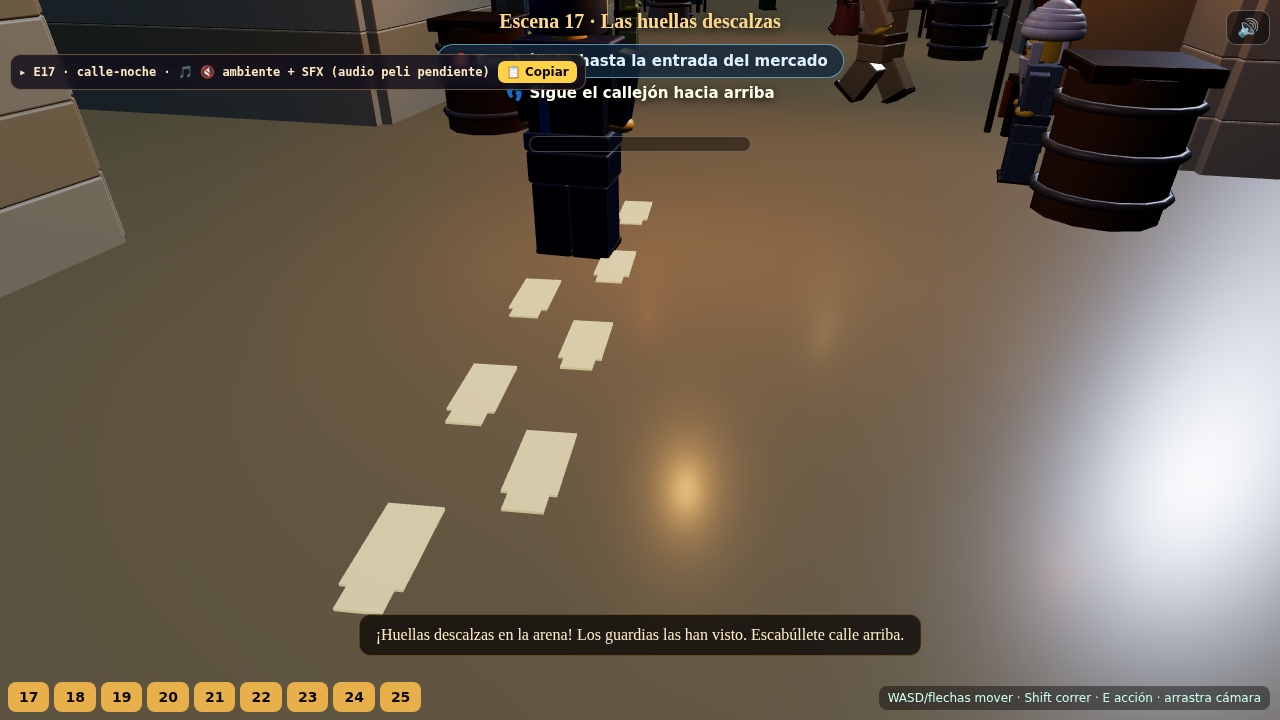
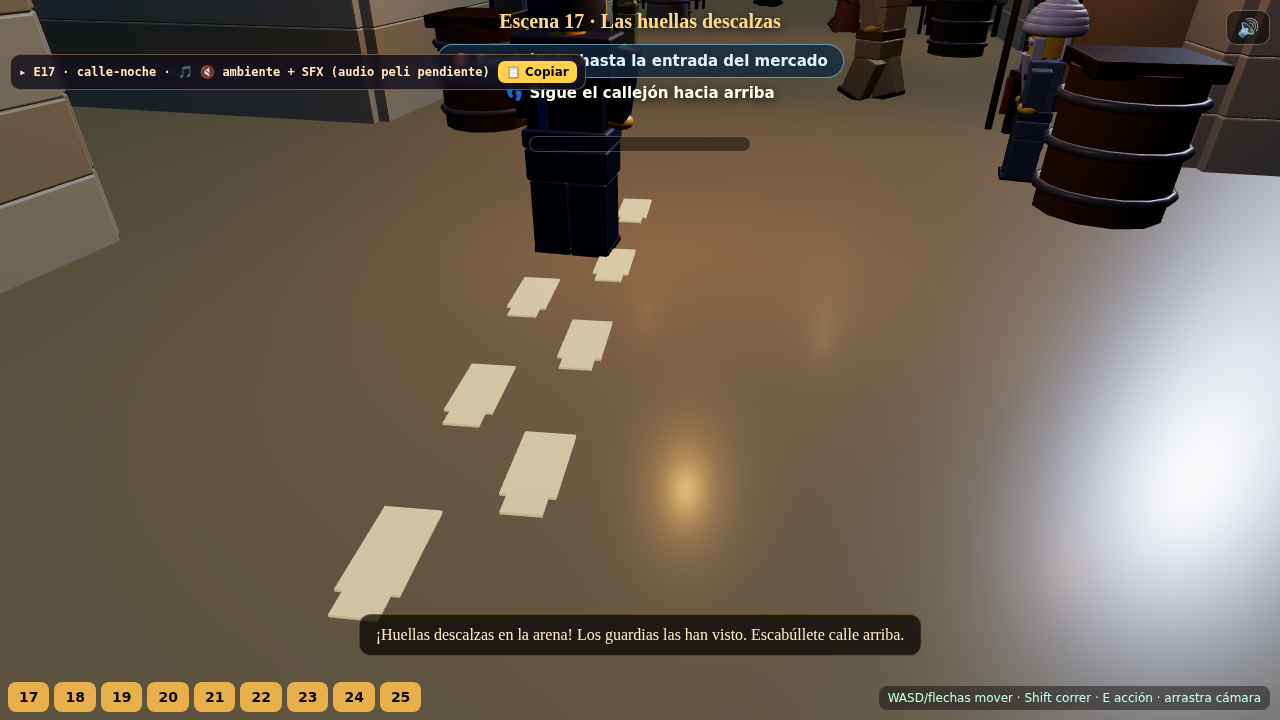
Fix playtest 10-15: sala más amplia, maceta/ventana alcanzables, escondites generosos
Feedback directo del usuario (playtest de la posada de Rahab):
- "el bar es muy pequeño, te agobias": TAVERN_BOUNDS ensanchado al muro real,
  mesas movidas al frente/laterales (centro y fondo despejados), cámara
  interior algo más abierta.
- "no puede llegar a la ventana (esc.20)": la maceta ya no tapa el pasillo al
  arco; radio del objetivo 2.6->3.0.
- "no puede llegar a la maceta": una mesa caía en su hueco; mesa reubicada y
  maceta a (9,0) (frente-derecha, hueco hacia la cámara).
- "esconderse en el tapiz es difícil y no gana fácil": RugHide/PotHide.contains
  ampliadas y tope lateral del tapiz más corto.

Verificado: compila 0 err, 0 errores de consola (9 escenas headless), y BFS con
el modelo de colisión real (radio 1.1) confirma arco/tapiz/maceta alcanzables y
todos los spawns libres. Capturas regeneradas. Audio de película sigue pendiente
del clip real (film-spine ya cableado).

Claude-Session: https://claude.ai/code/session_015WLDEivXXZbK5n9bBPcdg3

diff --git a/mundo-ladrillos/src/scenes/min10/props/stage.ts b/mundo-ladrillos/src/scenes/min10/props/stage.ts
@@ -30,8 +30,10 @@ export interface TavernStageHandle {
   dispose(): void;
 }
 
-/** Límite del recinto interior de la taberna (para acotar al jugador). */
-export const TAVERN_BOUNDS = { minX: -11.5, maxX: 11.5, minZ: -9.2, maxZ: 8 };
+/** Límite del recinto interior de la taberna (para acotar al jugador).
+ *  Ensanchado al muro real (x±12.7, fondo z−11) para que la sala NO agobie y se
+ *  pueda llegar al arco del fondo y a los escondites de las esquinas. */
+export const TAVERN_BOUNDS = { minX: -12, maxX: 12, minZ: -10, maxZ: 8.5 };
 
 /** Textura de "ventana a la noche": silueta de Jericó con ventanas cálidas + luna. */
 function nightCityTexture(): THREE.CanvasTexture {
@@ -135,16 +137,19 @@ export function buildTavernStage(ctx: SceneContext, opts: { rahabAt?: [number, n
       st.position.set(tx + Math.cos(a) * 2.0, 0.6, tz + Math.sin(a) * 2.0); group.add(st);
     }
   };
-  // mesas repartidas por el comedor (lejos de la barra, del paso central y de los escondites de z≈0)
-  diningTable(-4.5, 5.5); diningTable(4.5, 6.5); diningTable(6.5, -2.5);
+  // mesas del comedor en las esquinas/laterales DELANTEROS, FUERA de la columna de
+  // entrada (x≈0–2) y del hueco del tapiz: así el centro y el fondo (arco, hogar y
+  // los dos escondites) quedan DESPEJADOS y el niño se mueve sin agobio (feedback
+  // del playtest: "el bar es muy pequeño, te agobias").
+  diningTable(-7, 6); diningTable(7, 6); diningTable(-4.5, 3);
   // comensales + un camarero (aldeanos variados; idle sutil, sin clonar caras)
   const diners = buildCrowd(ctx.scene, P, [
-    { x: -6.2, z: 5.2, yaw: -0.7, emotion: 'happy' },
-    { x: -3.2, z: 6.8, yaw: 2.2, scale: 0.72 },
-    { x: 6.2, z: 6.4, yaw: -2.0, emotion: 'neutral' },
-    { x: 2.8, z: 6.6, yaw: 1.4, emotion: 'happy' },
-    { x: 8.0, z: -2.6, yaw: 2.4, emotion: 'neutral' },
-    { x: -2.5, z: -3.0, yaw: 0.2, emotion: 'happy' }   // camarero, junto a la barra
+    { x: -8.3, z: 5.6, yaw: -0.6, emotion: 'happy' },
+    { x: -5.7, z: 6.6, yaw: 2.3, scale: 0.72 },
+    { x: 8.3, z: 5.6, yaw: -2.4, emotion: 'neutral' },
+    { x: 5.7, z: 6.6, yaw: 1.4, emotion: 'happy' },
+    { x: -4.6, z: 1.6, yaw: 0.3, emotion: 'neutral' },
+    { x: -1.5, z: -3.4, yaw: 0.2, emotion: 'happy' }   // camarero, junto a la barra
   ], { startIndex: 11 });
 
   // ---- MOTAS de polvo flotando en la luz cálida (atmósfera senior) ----
@@ -161,11 +166,11 @@ export function buildTavernStage(ctx: SceneContext, opts: { rahabAt?: [number, n
 
   // Colisiones: paredes + barra + hogar + mesas del comedor.
   ctx.addObstacle(0, -10.8, 13, 0.6);
-  ctx.addObstacle(-12.4, -1, 0.6, 10);
-  ctx.addObstacle(12.4, -1, 0.6, 10);
+  ctx.addObstacle(-12.6, -1, 0.6, 10);
+  ctx.addObstacle(12.6, -1, 0.6, 10);
   ctx.addObstacle(-1.5, -5.5, 7.6, 1.2);
   ctx.addObstacle(-10.5, -9.6, 2, 1);
-  for (const [tx, tz] of [[-4.5, 5.5], [4.5, 6.5], [6.5, -2.5]] as Array<[number, number]>) ctx.addObstacle(tx, tz, 1.3, 1.3);
+  for (const [tx, tz] of [[-7, 6], [7, 6], [-4.5, 3]] as Array<[number, number]>) ctx.addObstacle(tx, tz, 1.3, 1.3);
 
   return {
     group, tav,
@@ -202,7 +207,10 @@ export function buildHideouts(ctx: SceneContext): HideoutsHandle {
   // Escondites EXENTOS en el suelo del comedor, con COLISIÓN + hueco detrás:
   // el tapiz (izquierda) y la tinaja (derecha). Se rodean para meterse detrás.
   const rug = new RugHide(ctx.plastic, { x: -7.5, z: 0, entrada: 'derecha' });
-  const pot = new PotHide(ctx.plastic, { x: 8, z: 0 });
+  // Maceta en el FRENTE-derecha (x9,z0): su hueco (hacia −z) es accesible desde la
+  // sala y NO tapa el pasillo del fondo que lleva al arco/ventana de la esc.20
+  // (verificado por BFS: alejarla a la esquina pinchaba el paso; aquí todo alcanza).
+  const pot = new PotHide(ctx.plastic, { x: 9, z: 0 });
   group.add(rug.group); group.add(pot.group);
   rug.registerCollision(ctx.addObstacle);
   pot.registerCollision(ctx.addObstacle);

diff --git a/mundo-ladrillos/src/scenes/min10/props/RugHide.ts b/mundo-ladrillos/src/scenes/min10/props/RugHide.ts
@@ -95,9 +95,10 @@ export class RugHide {
   registerCollision(addObstacle: (x: number, z: number, hw: number, hd: number) => void): void {
     const RW = RugHide.RW;
     addObstacle(this.x, this.z + 0.1, RW / 2, 0.35);                 // la tela
-    // tapa un lado del hueco para forzar entrar por el otro (rodear)
+    // tapa un lado del hueco para forzar entrar por el otro (rodear). Tope CORTO y
+    // pegado al fondo: sólo insinúa el "rodea", sin encajonar al niño en el hueco.
     const side = this.entrada === 'derecha' ? -1 : 1;               // cierra el lado opuesto a la entrada
-    addObstacle(this.x + side * (RW / 2 + 0.3), this.z - RugHide.NOOK / 2, 0.3, RugHide.NOOK / 2 + 0.3);
+    addObstacle(this.x + side * (RW / 2 + 0.3), this.z - RugHide.NOOK * 0.75, 0.3, RugHide.NOOK * 0.55);
   }
 
   /** El punto del hueco (detrás de la tela) para el sistema de sigilo. */
@@ -105,10 +106,12 @@ export class RugHide {
     return { x: this.x, z: this.z - RugHide.NOOK, radio: 1.6 };
   }
 
-  /** TRUE solo si el jugador está en el HUECO de detrás (no sobre la tela). */
+  /** TRUE si el jugador está en el HUECO de detrás (no sobre la tela). Zona GENEROSA
+   *  (feedback del niño: "esconderse en el tapiz es difícil"): basta con estar más o
+   *  menos detrás para contar como escondido. */
   contains(px: number, pz: number): boolean {
     const dz = this.z - pz;                                          // >0 = detrás
-    return dz > 0.35 && dz < RugHide.NOOK + 1.1 && Math.abs(px - this.x) < RugHide.RW / 2 + 0.3;
+    return dz > 0.2 && dz < RugHide.NOOK + 1.7 && Math.abs(px - this.x) < RugHide.RW / 2 + 0.9;
   }
 
   update(dt: number, t: number, hidden: boolean): void {
@@ -191,7 +194,8 @@ export class PotHide {
 
   contains(px: number, pz: number): boolean {
     const dz = this.z - pz;
-    return dz > PotHide.R - 0.4 && dz < PotHide.R + PotHide.NOOK && Math.abs(px - this.x) < PotHide.R + 0.4;
+    // Zona GENEROSA detrás/al lado de la tinaja (feedback: "no puede llegar a la maceta").
+    return dz > PotHide.R - 0.9 && dz < PotHide.R + PotHide.NOOK + 0.7 && Math.abs(px - this.x) < PotHide.R + 0.9;
   }
 
   update(dt: number, t: number, hidden: boolean): void {

diff --git a/mundo-ladrillos/src/scenes/min10/escena20_guardias_acercan.ts b/mundo-ladrillos/src/scenes/min10/escena20_guardias_acercan.ts
@@ -19,9 +19,9 @@ export const escena20: Min10Scene = {
   noche: true,
   ambiente: 'street',
   spawn: { x: 0, z: 3 },
-  objetivo: { tipo: 'ir_a', texto: 'Asómate al arco (E) para ver a los guardias', target: { x: 8, z: -8 }, radio: 2.6 },
+  objetivo: { tipo: 'ir_a', texto: 'Asómate al arco (E) para ver a los guardias', target: { x: 8, z: -8 }, radio: 3.0 },
   exito: '¡Son ellos! Hay que darse prisa.',
-  camara: { yaw: 0, pitch: 0.32, dist: 15 },
+  camara: { yaw: 0, pitch: 0.34, dist: 18 },
 
   build(ctx: SceneContext): SceneInstance {
     const group = new THREE.Group();

diff --git a/mundo-ladrillos/src/scenes/min10/escena24_rahab_miente.ts b/mundo-ladrillos/src/scenes/min10/escena24_rahab_miente.ts
@@ -21,7 +21,7 @@ export const escena24: Min10Scene = {
   spawn: { x: -7.5, z: -1.6 },   // empiezas ya escondido en el hueco detrás del tapiz
   objetivo: { tipo: 'esconderse', texto: 'Quédate quieto en el escondite mientras Rahab los engaña', target: { x: -7.5, z: -1.6 }, radio: 2.4 },
   exito: 'Los guardias se lo tragan y salen corriendo al río.',
-  camara: { yaw: 0, pitch: 0.38, dist: 18 },
+  camara: { yaw: 0, pitch: 0.4, dist: 19 },
 
   build(ctx: SceneContext): SceneInstance {
     const group = new THREE.Group();

diff --git a/mundo-ladrillos/src/scenes/min10/escena23_escondite.ts b/mundo-ladrillos/src/scenes/min10/escena23_escondite.ts
@@ -27,7 +27,7 @@ export const escena23: Min10Scene = {
   spawn: { x: 0, z: 6 },
   objetivo: { tipo: 'sigilo', texto: 'Aguanta 3 rondas: escóndete siempre en el sitio que el guardia NO inspecciona', target: { x: -8.5, z: -7.5 }, radio: 2.4 },
   exito: '¡El guardia se rinde y no os encontró!',
-  camara: { yaw: 0, pitch: 0.4, dist: 18 },
+  camara: { yaw: 0, pitch: 0.42, dist: 20 },
 
   build(ctx: SceneContext): SceneInstance {
     const group = new THREE.Group();

diff --git a/mundo-ladrillos/src/scenes/min10/escena19_entrar_posada.ts b/mundo-ladrillos/src/scenes/min10/escena19_entrar_posada.ts
@@ -19,7 +19,7 @@ export const escena19: Min10Scene = {
   spawn: { x: 0, z: 3 },
   objetivo: { tipo: 'ir_a', texto: 'Acércate a la barra y pulsa E para pedir café', target: { x: -1, z: -3 }, radio: 2.6 },
   exito: 'Rahab os sirve un café humeante. Por ahora, a salvo.',
-  camara: { yaw: 0, pitch: 0.3, dist: 14 },
+  camara: { yaw: 0, pitch: 0.32, dist: 16 },
 
   build(ctx: SceneContext): SceneInstance {
     const group = new THREE.Group();

diff --git a/mundo-ladrillos/src/scenes/min10/escena21_pacto.ts b/mundo-ladrillos/src/scenes/min10/escena21_pacto.ts
@@ -20,7 +20,7 @@ export const escena21: Min10Scene = {
   spawn: { x: 2, z: 3 },
   objetivo: { tipo: 'ir_a', texto: 'Acércate a Rahab y susurra el pacto (E)', target: { x: -1.5, z: -3.5 }, radio: 2.4 },
   exito: 'Rahab acepta. «Escondeos, yo os cubriré.»',
-  camara: { yaw: 0, pitch: 0.3, dist: 14 },
+  camara: { yaw: 0, pitch: 0.32, dist: 16 },
 
   build(ctx: SceneContext): SceneInstance {
     const group = new THREE.Group();

diff --git a/mundo-ladrillos/src/scenes/min10/escena22_patean_puerta.ts b/mundo-ladrillos/src/scenes/min10/escena22_patean_puerta.ts
@@ -20,7 +20,7 @@ export const escena22: Min10Scene = {
   spawn: { x: 0, z: 5 },
   objetivo: { tipo: 'esconderse', texto: 'Escóndete tras el tapiz o dentro de la maceta', target: { x: -8.5, z: -7.5 }, radio: 2.4 },
   exito: '¡Escondido justo a tiempo!',
-  camara: { yaw: 0, pitch: 0.34, dist: 16 },
+  camara: { yaw: 0, pitch: 0.36, dist: 18 },
 
   build(ctx: SceneContext): SceneInstance {
     const group = new THREE.Group();

diff --git a/mundo-ladrillos/coordinacion/min10-15.md b/mundo-ladrillos/coordinacion/min10-15.md
@@ -1,5 +1,28 @@
 # Creador 10–15 · "La posada de Rahab" (rama `claude/min-10-15-rajav-jordan`)
 
+## ◀ RESPUESTA A CEREBRO — FIX PLAYTEST DIRECTO DEL USUARIO (2026-07-26, noche)
+El **usuario probó el jugable** y reportó (playtest real, no vía Eli). Traducido a fixes
+concretos y **entregado** (rama `claude/min-10-15-rajav-jordan`). Compila (0 err), **0
+errores de consola** en las 9 escenas (headless, single-file) y **alcance verificado por
+BFS** con el modelo de colisión exacto (radio 1.1): arco/ventana, tapiz y maceta
+**alcanzables** y **todos los spawns libres**. Capturas regeneradas.
+
+- 🗣 *"el bar es muy pequeño, te agobias dentro"* → **sala ensanchada** al muro real
+  (`TAVERN_BOUNDS` −12..12 / −10..8.5), **mesas movidas al frente/laterales** (fuera de
+  la columna de entrada y del hueco del tapiz) → **centro y fondo despejados**; **cámara
+  interior algo más abierta** (dist 14→16, 16→18, 18→20).
+- 🗣 *"no puede llegar a la ventana (esc.20)"* → la **maceta ya no bloquea** el pasillo al
+  **arco** del fondo; objetivo con radio 2.6→**3.0**. Verificado: se llega **a ≤1.5** del arco.
+- 🗣 *"no puede llegar a la maceta"* → causa raíz: una **mesa caía justo en su hueco**.
+  Mesa reubicada + **maceta a (9,0)** (frente-derecha, hueco hacia la cámara). *(Probé la
+  esquina pero **pinchaba** el pasillo — BFS lo descartó; (9,0) da la mayor zona jugable.)*
+- 🗣 *"esconderse en el tapiz es difícil y no gana fácil"* → **zonas de escondite MUCHO
+  más generosas** (`RugHide/PotHide.contains` ampliadas) y **tope lateral del tapiz más
+  corto** (menos "muro invisible"): basta con estar más o menos detrás para contar.
+- 🗣 *"hay audio de película genial para meter en todas estas escenas"* → el **film-spine
+  sigue cableado y listo** (`USE_FILM_SPINE`); **pendiente el clip real** (privado). En
+  cuanto me lo pases, lo calibro y enciendo como en min05. **← te toca a ti, usuario.**
+
 ## ◀ RESPUESTA A CEREBRO — P1 ENTREGADO (2026-07-26, tarde)
 Recibida tu orden "ITERACIÓN CON TESTER REAL" (prioridad aprobada por el usuario).
 **P1 hecho y pusheado** (rama `claude/min-10-15-rajav-jordan`). Compila (0 err) y 0
